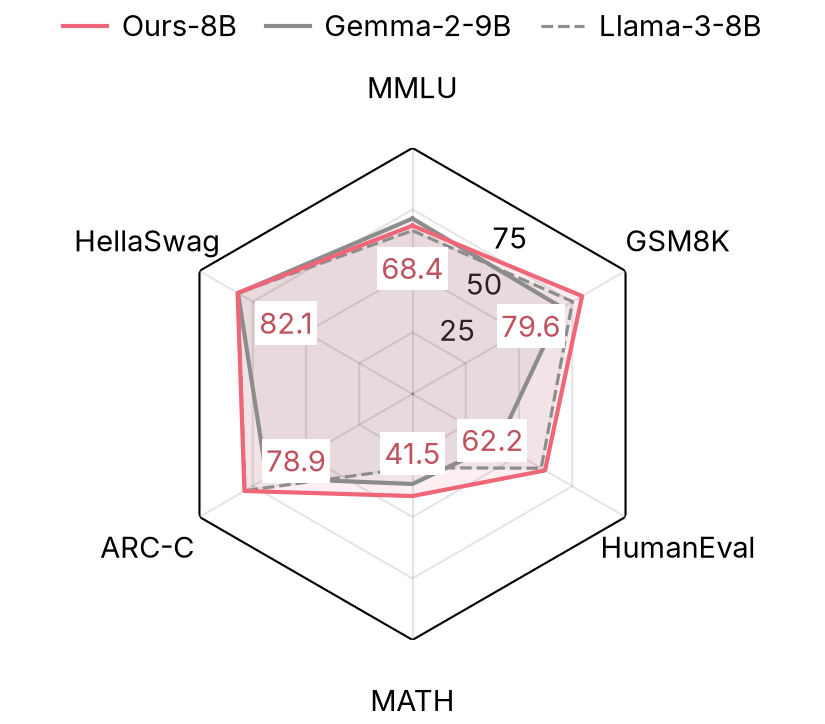
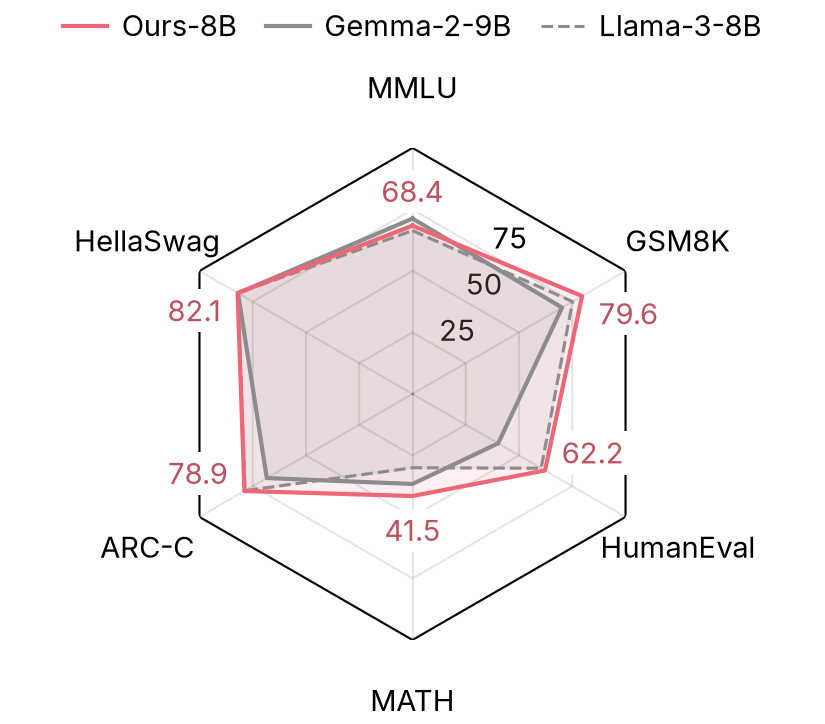
Radar values outside their vertices, names pushed out only on overlap

diff --git a/skills/academic-figure/radar-chart.md b/skills/academic-figure/radar-chart.md
@@ -17,6 +17,6 @@ A few models' profiles across 5–10 benchmarks or capabilities, when the shape 
   ax.set_ylim(0, rings[-1])
   ```
 - Benchmark names as the spoke labels, `ax.set_xticks(angles, labels=names)`, pushed off the outer polygon, `ax.tick_params(axis="x", pad=6)`. Ring values labelled between two spokes so they sit on no line, where a polygon ring is at r·cos(π/n), not r: `ax.set_yticks([r * np.cos(np.pi / n) for r in rings[:-1]], labels=[str(r) for r in rings[:-1]])`, `ax.set_rlabel_position(180 / n)`.
-- Value labels: only for the proposed model, its value at each spoke in 7 pt `darken(colors["ours"])`, pushed inward from its vertex along the spoke, so it never meets the spoke names outside the polygon, on a white box since it sits over the other polygons: `ax.annotate(f"{v:#.3g}", (angle, v), xytext=(-6 * np.sin(angle), -6 * np.cos(angle)), textcoords="offset points", ha="right" if np.sin(angle) > 0.1 else "left" if np.sin(angle) < -0.1 else "center", va="top" if np.cos(angle) > 0.1 else "bottom" if np.cos(angle) < -0.1 else "center", bbox=dict(facecolor="white", edgecolor="none", pad=1))` (angles measured clockwise from the top).
+- Value labels: only for the proposed model, its value at each spoke in 7 pt `darken(colors["ours"])`, outside its vertex. On a side spoke the label sits beside the vertex, outward and hanging toward the horizontal axis, away from the spoke name that continues the spoke; on the top and bottom spokes it sits just beyond the vertex along the spoke; on a white box where it crosses a ring line: `side = np.sin(angle) if abs(np.sin(angle)) > 0.1 else 0`, `up = np.cos(angle) if side == 0 else 0`, `ax.annotate(f"{v:#.3g}", (angle, v), xytext=(4 * np.sign(side), 4 * np.sign(up)), textcoords="offset points", ha="left" if side > 0 else "right" if side < 0 else "center", va=("top" if np.cos(angle) > 0 else "bottom") if side else ("bottom" if up > 0 else "top"), bbox=dict(facecolor="white", edgecolor="none", pad=1))` (angles measured clockwise from the top). When `fit_height` still reports a value label overlapping its spoke name, push the names out, `ax.tick_params(axis="x", pad=8)`, then `10`, …, the smallest pad that clears.
 - Legend: outside above the chart, `fig.legend(handles, labels, loc="outside upper center", ncol=<models>, frameon=False, borderaxespad=0)`, ours first although it is drawn last.
 - `fit_height` sizes the chart to the width; the `aspect` argument is ignored.
